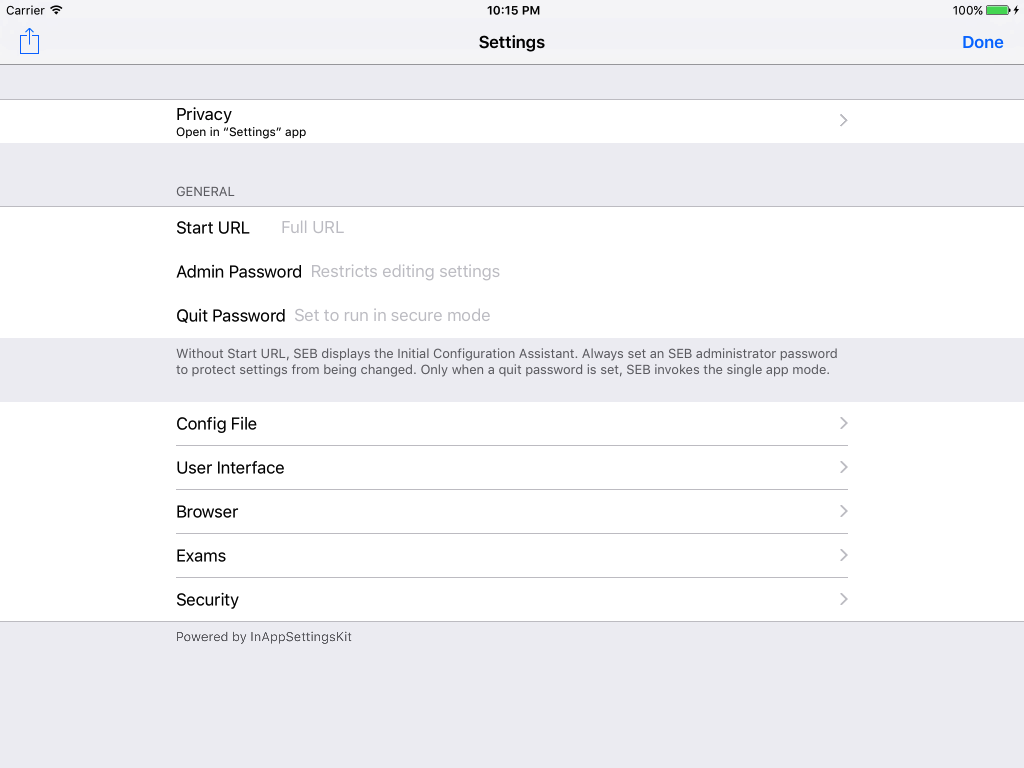
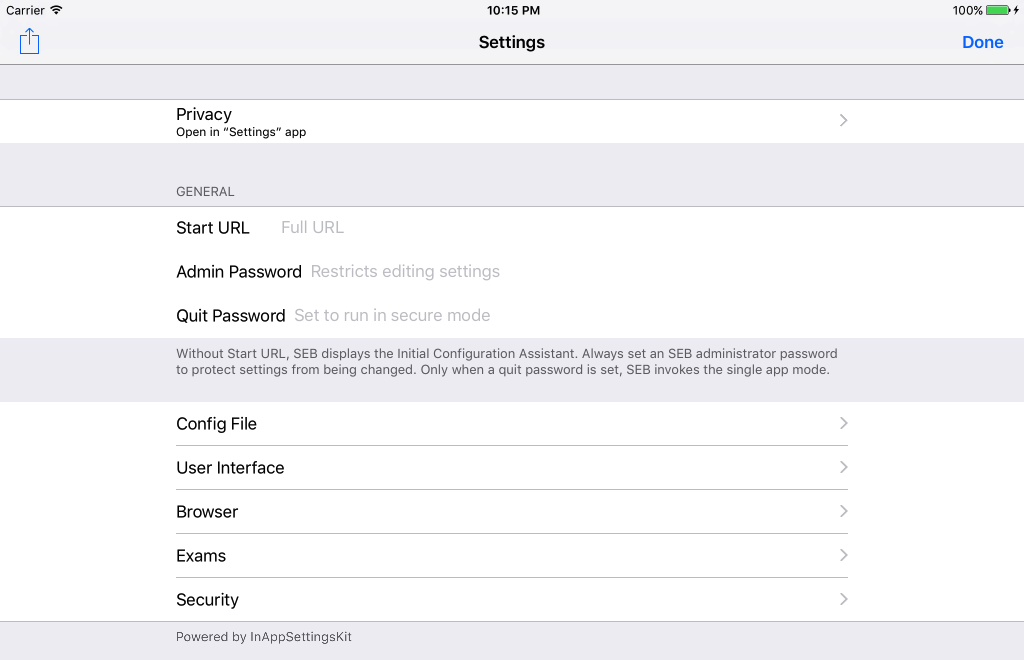
Cropped images and fixed wrong image tags.

diff --git a/ios/ios_usermanual_en.html b/ios/ios_usermanual_en.html
@@ -277,7 +277,8 @@
           </h2>
     
           <p>SafeExamBrowser – SEB for iOS opens a web browser view without navigation elements and locks an iPad (or iPhone or iPhone Touch) into a single app kiosk mode, which prevents from switching to other apps  during an exam. SEB enables secure exams on unmanaged iOS devices like students' own iPads as well as on  iOS devices owned and managed by an institution. SEB doesn't use a centralized server or cloud service, it can be configured with an API, config files and config links. Currently SEB integrates especially well with   learning management systems (LMS) Moodle,  ILIAS and OpenOLAT and several non-commercial and commercial exam systems, as for example Inspera Assessment. Generally it can easily be used with most web-based online quiz and e-assessment systems.</p>
-          <p><strong>The following manual explains   how to configure and use SEB for iOS from the perspective of exam administrators.</strong> SEB is a very flexible and modular tool, therefore documentation for examinees on how to use SEB with individual exam setups and the various exam systems it works with should be provided by the institution using SEB or their e-assessment provider. </p>
+          <p><strong>The following manual explains   how to configure and use SEB for iOS from the perspective of exam administrators.</strong> SEB is a very flexible and modular tool, therefore documentation for examinees on how to use SEB with individual exam setups and the various exam systems it works with should be provided by the institution using SEB or their e-assessment provider.<br />
+          </p>
 
         </div>
         <!-- / Document Section --> 
@@ -520,8 +521,7 @@
             <a class="anchorjs-link" href="#ExamPane"></a>Settings in the Exam Pane
           </h4>
           
-          <p><img class="img-responsive" src="images/SEB_SettingsExam.png" alt="SEB Settings in Exam Section" />
-          </p>
+          <img class="img-responsive" src="images/SEB_SettingsExam.png" alt="SEB Settings in Exam Section" />
           
           <ul id="seblist">
             <li><strong>Quit Link</strong>
@@ -745,9 +745,8 @@ certificates extend the system trust store (as if you had manually added them to
             <a class="anchorjs-link" href="#SecurityPane"></a>Settings in the Security Pane
           </h4>
           
-          <p><img class="img-responsive" src="images/SEB_SettingsSecurity.png" alt="SEB Settings in Security Section" />
+          <img class="img-responsive" src="images/SEB_SettingsSecurity.png" alt="SEB Settings in Security Section" />
           
-          </p>
           <p>SEB support the following iOS single app (kiosk/lock down) modes: </p>
           <ul>
             <li><strong>Automatic Assessment Configuration (AAC)</strong>: Also know as &quot;app self-lock&quot;. This single app mode can be invoked by assessment apps like SEB even when using unmanaged devices owned by students (for bring-your-own-device BYOD scenarios). The examinee needs to confirm starting AAC in an alert.</li>
